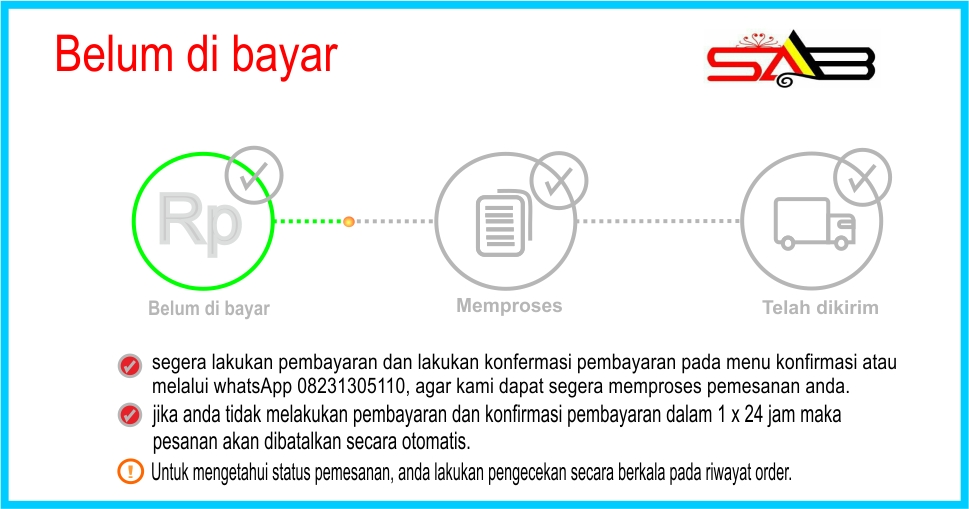
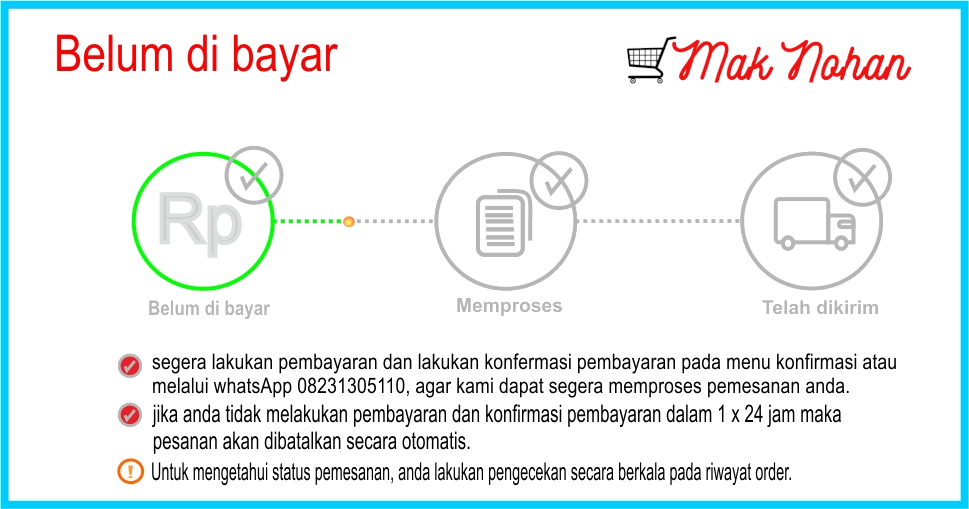
ganti produk, stop pembayaran fasapay,konfirmasi pembayaran di hapus karena digunakan untuk pembayaran melalui bank

Changed region(s): [[0.6502, 0.0589, 0.9598, 0.1768]]

diff --git a/kanan.php b/kanan.php
@@ -530,16 +530,16 @@ echo"
 	}
 
 }
-elseif ($_GET[module]=='selesaibelanja'){
+elseif ($_GET['module']=='selesaibelanja'){
  $sid = session_id();
 $member=mysql_query("SELECT * FROM kustomer WHERE id_kustomer='$_SESSION[kustomer_id]'");
     $m=mysql_fetch_array($member);
-    $address=$m[address];
+    $address=$m['address'];
 $edit = mysql_query("SELECT SUM(berat) AS weight FROM orders_temp a left join produk b on a.id_produk=b.id_produk
 		left join ukuran c on a.id_ukuran=c.id_ukuran 
 			                WHERE id_session='$sid'");
     $w    = mysql_fetch_array($edit);
-	$totalberat=$w[weight];
+	$totalberat=$w['weight'];
 	$berat_gram=$totalberat*1000;
   if (empty($_SESSION['namalengkap']) AND empty($_SESSION['passuser'])){
 
@@ -589,7 +589,7 @@ echo"
 			$data = json_decode($response, true);
 				$data = json_decode($response, true);
 			 
-				echo "<option value='501' selected>Yogyakarta</option>";
+				echo "<option value='498' selected>Wonosobo</option>";
 			echo "</select>
 						</div>
 					  </div>";
@@ -629,69 +629,71 @@ echo"
 						 <select id='kabupaten' name='kabupaten' class='custom-select'></select>
 						</div>
 					  </div>
-					  <div class='control-group'>
-						<label class='span2 control-label' for='inputPassword'>Kurir</label>
-						<div class='controls'>
-						  <select id='kurir' name='kurir' class='custom-select'>
-				<option value='jne'>JNE</option>
-				<option value='tiki'>TIKI</option>
-				<option value='pos'>POS INDONESIA</option>
-			</select>
+
+						<div class='control-group'>
+							<label class='span2 control-label' for='inputPassword'>Kurir</label>
+							<div class='controls'>
+								<select id='kurir' name='kurir' class='custom-select'>
+									<option value='jne'>JNE</option>
+									<option value='tiki'>TIKI</option>
+									<option value='pos'>POS INDONESIA</option>
+								</select>
+							</div>
 						</div>
-					  </div>
-					  <div class='control-group'>
-						<label class='span2 control-label' for='inputPassword'>Berat (gr)</label>
-						<div class='controls'>
-						  <input type='number' id='berat' name='berat' value='$berat_gram' readonly>
+
+						<div class='control-group'>
+							<label class='span2 control-label' for='inputPassword'>Berat (gr)</label>
+							<div class='controls'>
+								<input type='number' id='berat' name='berat' value='$berat_gram' readonly>
+							</div>
 						</div>
-					  </div>
-					  <div class='control-group'>
-						<div class='controls'>
-						<input id='cek' type='button' value='Cek Ongkir' class='shopBtn'>
-						  
+
+						<div class='control-group'>
+							<div class='controls'>
+								<input id='cek' type='button' value='Cek Ongkir' class='shopBtn'>
+							</div>
 						</div>
-					  </div>
 					 
 				  </td>
 				  </tr>
               </tbody>
             </table>
 			
-			
-			<div class='col-md-8'>
-		  <div class='card my-4'>
-            <div class='card-body'>
-				<div id='loading'><img src='img/ajax-loader.gif'></div>
-				<p id='kurirname' style='font-weight:700;text-transform:uppercase;color:green;'></p>
-				<table id='details' class='table table-bordered table-responsive'></table>
-				<table id='ongkos' class='table table-bordered table-responsive'></table>
-				<div id='ongkir'></div>
-		   </div>
-          </div>
-        </div>
-		 <div class='control-group'>
+		<div class='col-md-8'>
+			<div class='card my-4'>
+				<div class='card-body'>
+					<div id='loading'><img src='img/ajax-loader.gif'></div>
+					<p id='kurirname' style='font-weight:700;text-transform:uppercase;color:green;'></p>
+					<table id='details' class='table table-bordered table-responsive'></table>
+					<table id='ongkos' class='table table-bordered table-responsive'></table>
+					<div id='ongkir'></div>
+				</div>
+			</div>
+		</div>
+		
+		<div class='control-group'>
 			<label class='control-label' for='inputLname'>Alamat Pengiriman<sup>*</sup></label>
 			<div class='controls'>
-			  <input type='text' name='alamat' id='inputLname' value='$address' placeholder='Masukkan Alamat Anda' required>
+				<textarea name='alamat' id='inputLname' placeholder='Masukkan Alamat Anda' required class='input-block-level'>{$address}</textarea>
 			</div>
-		 </div>
-		 <div class='control-group'>
-		<label class='control-label'>Jenis Pembayaran <sup>*</sup></label>
-		<div class='controls'>
-		<select name='jenis_pembayaran'  required>
-      <option value=''>-- Pilih Jenis Pembayaran --</option>
-          <option value='TRANSFER'>TRANSFER</option>
-          <option value='FASAPAY'>FASAPAY</option>
-		  </select>
 		</div>
+
+		<div class='control-group' style='display:none'>
+			<label class='control-label'>Jenis Pembayaran <sup>*</sup></label>
+			<div class='controls'>
+				<select name='jenis_pembayaran'  required>
+					<option value=''>-- Pilih Jenis Pembayaran --</option>
+					<option value='TRANSFER'>TRANSFER</option>
+					<option selected value='FASAPAY'>FASAPAY</option>
+				</select>
+			</div>
 		</div>
-		 
 		
-	<div class='control-group'>
-		<div class='controls'>
-		 <input type='submit' name='submitAccount' value='Proses' class='exclusive shopBtn'>
+		<div class='control-group'>
+			<div class='controls'>
+			<input type='submit' name='submitAccount' value='Proses' class='exclusive shopBtn'>
+			</div>
 		</div>
-	</div>
 	</form>
 </div>
 							</div>";
@@ -728,7 +730,7 @@ $jam_skrg = date("H:i:s");
  $allitem = mysql_fetch_array(mysql_query("SELECT * FROM orders_temp,produk "
             . "WHERE orders_temp.id_produk=produk.id_produk "
             . "AND id_session='$sesid'"));
-            $rekap = "Pembelian di Toko Batik Sinar Abadi ";
+            $rekap = "Pembelian di Toko Mak Nohan ";
 $rekaps = array();
             $totalquantity = 0;
             foreach ($allitem as $_it) {
@@ -809,11 +811,11 @@ echo"
         Data order Anda adalah sebagai berikut: <br /><br />";
 			  $no=1;
 while ($d=mysql_fetch_array($daftarproduk)){
-   $subtotalberat = $d[berat] * $d[jumlah]; // total berat per item produk 
+   $subtotalberat = $d['berat'] * $d['jumlah']; // total berat per item produk 
    $totalberat  = $totalberat + $subtotalberat; // grand total berat all produk yang dibeli
 
-   $harga1 = $d[harga];
-   $subtotal    = $harga1 * $d[jumlah];
+   $harga1 = $d['harga'];
+   $subtotal    = $harga1 * $d['jumlah'];
    $total       = $total + $subtotal;
    $subtotal_rp = format_rupiah($subtotal);    
    $total_rp    = format_rupiah($total);    
@@ -839,8 +841,8 @@ $norek = mysql_query("SELECT * FROM norek LIMIT 1");
 	
 $edit=mysql_query("SELECT * FROM kustomer WHERE id_kustomer='$_SESSION[kustomer_id]'");
 $x=mysql_fetch_array($edit);
-$email=$x[email];
-$kota=$x[id_kota];
+$email=$x['email'];
+$kota=$x['id_kota'];
 
 $ongkos=mysql_fetch_array(mysql_query("SELECT ongkir FROM orders WHERE id_orders='$id_orders'"));
 $ongkoskirim1=$ongkos[ongkir];
@@ -860,14 +862,14 @@ $pesan.="<br /><br />Total : Rp. $total_rp
          nomor rekeningnya <b>$z[nomor]</b> a.n. $z[atas_nama]";
 $subjek="Pemesanan Online sinarabadibatik.online";
 // Kirim email dalam format HTML
-$dari = "From: redaksi@sinarabadibatik.online \n";
+$dari = "From: redaksi@tokomaknohan.online \n";
 $dari .= "Content-type: text/html \r\n";
 
 // Kirim email ke kustomer
-mail($x[email],$subjek,$pesan,$dari);
+mail($x['email'],$subjek,$pesan,$dari);
 
 // Kirim email ke pengelola toko online
-mail("dafidsriwidodo@gmail.com",$subjek,$pesan,$dari);
+mail("tokomaknohan@gmail.com",$subjek,$pesan,$dari);
 echo"				
 				 <tr>
                   <td colspan='6' class='alignR'>Total:	</td>
@@ -894,17 +896,17 @@ echo"
 			 if ($_POST["jenis_pembayaran"] == "FASAPAY") {
 			 echo"<p>Silahkan lanjutkan proses pembayaran melalui Akun Fasapay Anda dengan mengklik tombol di bawah ini, untuk melihat setatus pengiriman silakan pilih halaman <a href='data-transaksi.html'><b>riwayat order</b></a></p><br />
 			 <form id='form1' name='form1' target='_blank' method='post' action='https://sci.fasapay.co.id/'>
-	<input type='hidden' name='fp_acc' value='FI435930'>
+	<input type='hidden' name='fp_acc' value='FP618486'>
     <input type='hidden' name='fp_acc_from' value='' />
-    <input type='hidden' name='fp_store' value='Sinar Abadi Batik'>
-    <input type='hidden' name='fp_item' value='Pembelian Produk Sinar Abadi Batik'>
+    <input type='hidden' name='fp_store' value='Toko Maknohan | Pusat Oleh-Oleh Khas Dieng'>
+    <input type='hidden' name='fp_item' value='Pembelian Produk Di Toko Oleh-Oleh Maknohan'>
     <input type='hidden' name='fp_amnt' value='$grandtotal'>
     <input type='hidden' name='fp_currency' value='IDR'>
     <input type='hidden' name='fp_comments' value='Pembayaran No Order $id_orders menggunakan store variable'>
     <input type='hidden' name='fp_merchant_ref' value='BL000001' />
-    <input type='hidden' name='fp_success_url' value='http://www.sinarabadibatik.online/gentur/index.php' />
+    <input type='hidden' name='fp_success_url' value='http://www.tokomaknohan.online/gentur/index.php' />
 	<input type='hidden' name='fp_success_method' value='POST' />
-	<input type='hidden' name='fp_fail_url' value='http://www.sinarabadibatik.online/gentur/index.php' />
+	<input type='hidden' name='fp_fail_url' value='http://www.tokomaknohan.online/gentur/index.php' />
 	<input type='hidden' name='fp_fail_method' value='GET' />
     <!-- baggage fields -->
     <input type='hidden' name='track_id' value='558421222'>
@@ -959,14 +961,14 @@ echo"
 							</div>";
 
 }
-elseif ($_GET[module]=='detailtransaksi'){
+elseif ($_GET['module']=='detailtransaksi'){
 session_start();
 $edit = mysql_query("SELECT * FROM orders WHERE id_orders='$_GET[id]'");
     $r    = mysql_fetch_array($edit);
-    $status=$r[status_order];
-    $metode=$r[jenis_pembayaran];
-    $id_orders=$r[id_orders];
-    $tanggal=tgl_indo($r[tgl_order]);
+    $status=$r['status_order'];
+    $metode=$r['jenis_pembayaran'];
+    $id_orders=$r['id_orders'];
+    $tanggal=tgl_indo($r['tgl_order']);
 	$customer=mysql_query("select * from kustomer where id_kustomer='$r[id_kustomer]'");
   $c=mysql_fetch_array($customer);
 echo"							
@@ -1029,23 +1031,23 @@ echo "<tr><td colspan=5 align=right>Total              Rp. : </td><td align=righ
       if ($metode == "FASAPAY" AND $status=='Belum-Dibayar') {
 			 echo"<p>Silahkan lanjutkan proses pembayaran melalui Akun Fasapay Anda dengan mengklik tombol di bawah ini.<br />
 			 <form id='form1' name='form1' target='_blank' method='post' action='https://sci.fasapay.co.id/'>
-	<input type='hidden' name='fp_acc' value='FI435930'>
-    <input type='hidden' name='fp_acc_from' value='' />
-    <input type='hidden' name='fp_store' value='Sinar Abadi Batik'>
-    <input type='hidden' name='fp_item' value='Pembelian Produk Sinar Abadi Batik'>
-    <input type='hidden' name='fp_amnt' value='$grandtotal'>
-    <input type='hidden' name='fp_currency' value='IDR'>
-    <input type='hidden' name='fp_comments' value='Pembayaran No Order $id_orders menggunakan store variable'>
-    <input type='hidden' name='fp_merchant_ref' value='BL000001' />
-    <input type='hidden' name='fp_success_url' value='http://www.sinarabadibatik.online/gentur/index.php' />
-	<input type='hidden' name='fp_success_method' value='POST' />
-	<input type='hidden' name='fp_fail_url' value='http://www.sinarabadibatik.online/gentur/index.php' />
-	<input type='hidden' name='fp_fail_method' value='GET' />
-    <!-- baggage fields -->
-    <input type='hidden' name='track_id' value='558421222'>
-    <input type='hidden' name='order_id' value='BJ2993800'>
-  <input name='' type='submit' value='Bayar Dengan Fasapay' />
-</form>";
+				<input type='hidden' name='fp_acc' value='FP669896'>
+				<input type='hidden' name='fp_acc_from' value='' />
+				<input type='hidden' name='fp_store' value='Toko Mak Nohan | Pusat Oleh-Oleh Khas Dieng'>
+				<input type='hidden' name='fp_item' value='Pembelian Produk Toko Mak Nohan'>
+				<input type='hidden' name='fp_amnt' value='$grandtotal'>
+				<input type='hidden' name='fp_currency' value='IDR'>
+				<input type='hidden' name='fp_comments' value='Pembayaran No Order $id_orders menggunakan store variable'>
+				<input type='hidden' name='fp_merchant_ref' value='BL000001' />
+				<input type='hidden' name='fp_success_url' value='index.php' />
+				<input type='hidden' name='fp_success_method' value='POST' />
+				<input type='hidden' name='fp_fail_url' value='index.php' />
+				<input type='hidden' name='fp_fail_method' value='GET' />
+				<!-- baggage fields -->
+				<input type='hidden' name='track_id' value='558421222'>
+				<input type='hidden' name='order_id' value='BJ2993800'>
+				<input name='' type='button' value='Bayar Dengan Fasapay' />
+			</form>";
 			 }
       
       if ($status=='Belum-Dibayar'){

diff --git a/media2.php b/media2.php
@@ -21,7 +21,7 @@ $statusUrl = $serverUrlAndPath."status.php";
 <html lang="en">
   <head>
     <meta charset="utf-8">
-    <title>Toko Batik Maknohan</title>
+    <title>Mak Nohan Oleh-Oleh Khas Dieng Wonosobo</title>
     <meta name="viewport" content="width=device-width, initial-scale=1.0">
     <meta name="description" content="">
     <meta name="author" content="">
@@ -72,7 +72,7 @@ $statusUrl = $serverUrlAndPath."status.php";
 		  <a href="index.php"> <span class="icon-home"></span> Home</a> 
 				<a href="edit-member.html"><span class="icon-user"></span> My Account</a>
 				<a href="data-transaksi.html"><span class="icon-edit"></span> Riwayat Order </a>
-				<a href="konfirmasi-pembayaran.html"><span class="icon-envelope"></span> Konfirmasi Pembayaran</a>
+				<!-- <a href="konfirmasi-pembayaran.html"><span class="icon-envelope"></span> Konfirmasi Pembayaran</a> -->
 				<a href="hubungi-kami.html"><span class="icon-envelope"></span> Hubungi Kami</a>
 				<a href="keranjang-belanja.html"><span class="icon-shopping-cart"></span> Keranjang Anda</a>
 				<?php
@@ -229,24 +229,34 @@ Footer
 
  <div class="span6">
 <h5>Kontak Kami</h5>
-Email : sinarabadibatikkp@yahoo.com <br>
+Email : tokomaknohan@gmail.com <br>
 Phone : 0813 9015 7959  <br>
-Alamat :  Jl. Sutijab No.48, Wates, Kabupaten Kulon Progo, DIY 55651 <br>
+Alamat :  Jl. Raya Kertek km 05 Sayangan Wonosobo <br>
  </div>
  </div>
 </footer>
 </div><!-- /container -->
-
 <div class="copyright">
 <div class="container">
-	<p class="pull-right">
-		<a href="#"><img src="assets/img/maestro.png" alt="payment"></a>
-		<a href="#"><img src="assets/img/mc.png" alt="payment"></a>
-		<a href="#"><img src="assets/img/pp.png" alt="payment"></a>
-		<a href="#"><img src="assets/img/visa.png" alt="payment"></a>
-		<a href="#"><img src="assets/img/disc.png" alt="payment"></a>
-	</p>
-	<span>Copyright &copy; 2018<br> Toko Batik Sinar Abadi</span>
+	<table width="100%">
+	 	<tr>
+	 		<td width="70%">
+				<span>Copyright &copy; <?= date('Y') ?><br> Mak Nohan Oleh-Oleh Khas Dieng Wonosobo</span>
+			</td>
+			<td width="30%">
+	 			<table>
+	 				<tr>
+	 					<td>
+	 						Metode Pembayaran :
+						</td>
+						<td>
+							<a href="#"><img style="height:50px" src="img/fasapay.png" alt="payment">
+						</td>
+					</tr>
+				</table>
+			</td>
+		</tr>
+	</table>
 </div>
 </div>
 <a href="#" class="gotop"><i class="icon-double-angle-up"></i></a>

diff --git a/adminweb/navigation.php b/adminweb/navigation.php
@@ -33,7 +33,7 @@ echo "
           <ul class='treeview-menu'>
 		    <li><a href='media.php?module=kustomer' class='".($_GET['module']=='kustomer'? 'bg-blue-active' : NULL)."'><i class='fa fa-circle-o'></i> Kustomer</a></li>
             <li><a href='media.php?module=order' class='".($_GET['module']=='order'? 'bg-blue-active' : NULL)."'><i class='fa fa-circle-o'></i> Data Orders</a></li>
-			<li><a href='media.php?module=konfirmasi' class='".($_GET['module']=='konfirmasi'? 'bg-blue-active' : NULL)."'><i class='fa fa-circle-o'></i> Konfirmasi Pembayaran</a></li>
+			<!--<li><a href='media.php?module=konfirmasi' class='".($_GET['module']=='konfirmasi'? 'bg-blue-active' : NULL)."'><i class='fa fa-circle-o'></i> Konfirmasi Pembayaran</a></li>-->
           </ul>
         </li>
 		<li class='".($_GET['module']=='laporan'? 'bg-blue-active' : NULL)."'>

diff --git a/kiri.php b/kiri.php
@@ -12,11 +12,13 @@ echo"
 	</ul>
 </div>
 
-			  <div class='well well-small' ><a href='#'><img src='assets/img/paypal.jpg' alt='payment method paypal'></a>
-			  <center><h4>Mandiri</h4>
-				  <p>An. Gentur Aji</p>
+			  <div class='well well-small' >
+			  	<h5>Metode Pembayaran</h5>
+			  	<a href='#'><img src='img/fasapay.png' alt='payment method fasapay'></a>
+			  <!--<center><h4>Mandiri</h4>
+				  <p>An. Toko Maknohan</p>
 				  <p>No. Rek : 0867564-9876-876</p>
-			  </center>
+			  </center>-->
 			  </div>";
 $promo=mysql_query("SELECT * FROM produk ORDER BY rand() LIMIT 1");
 while($a=mysql_fetch_array($promo)){

diff --git a/adminweb/media.php b/adminweb/media.php
@@ -181,7 +181,7 @@ else{
     <!-- Content Header (Page header) -->
     <section class="content-header">
       <h1>
-        Administrator E-Commerce Toko Maknohan
+        Administrator E-Commerce Toko Mak Nohan
         
       </h1>
       
@@ -204,7 +204,7 @@ else{
     <div class="pull-right hidden-xs">
       <b>Version</b> 2.3.3
     </div>
-    <strong>Copyright &copy; <?= date('Y') ?> Toko Maknohan All rights
+    <strong>Copyright &copy; <?= date('Y') ?> Toko Mak Nohan All rights
     reserved.
   </footer>
 
